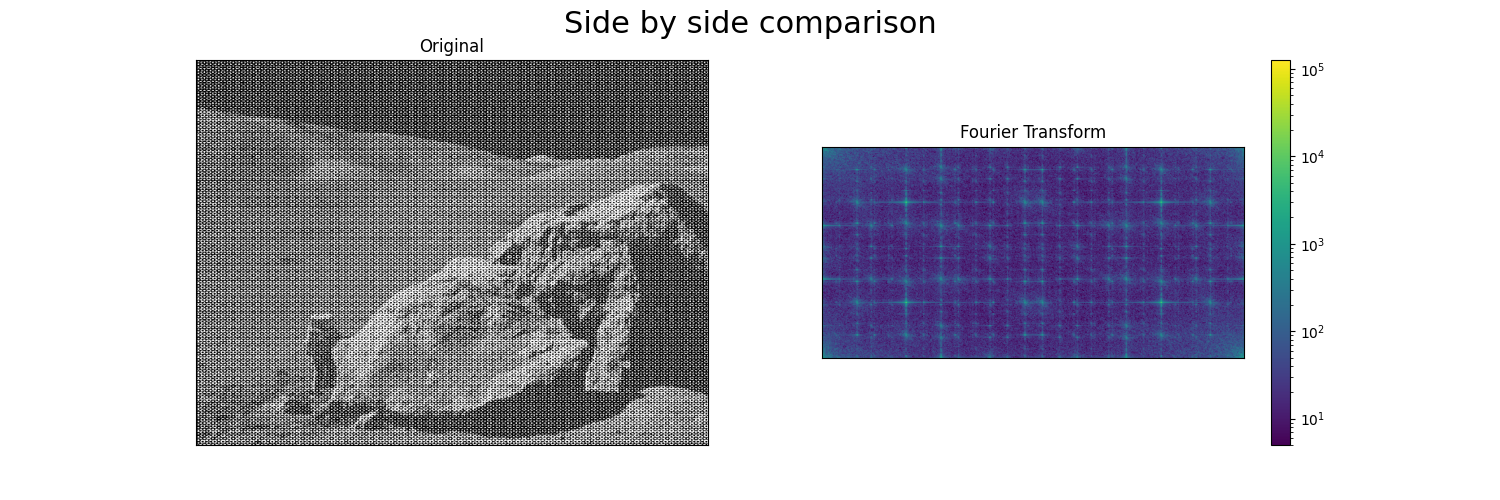
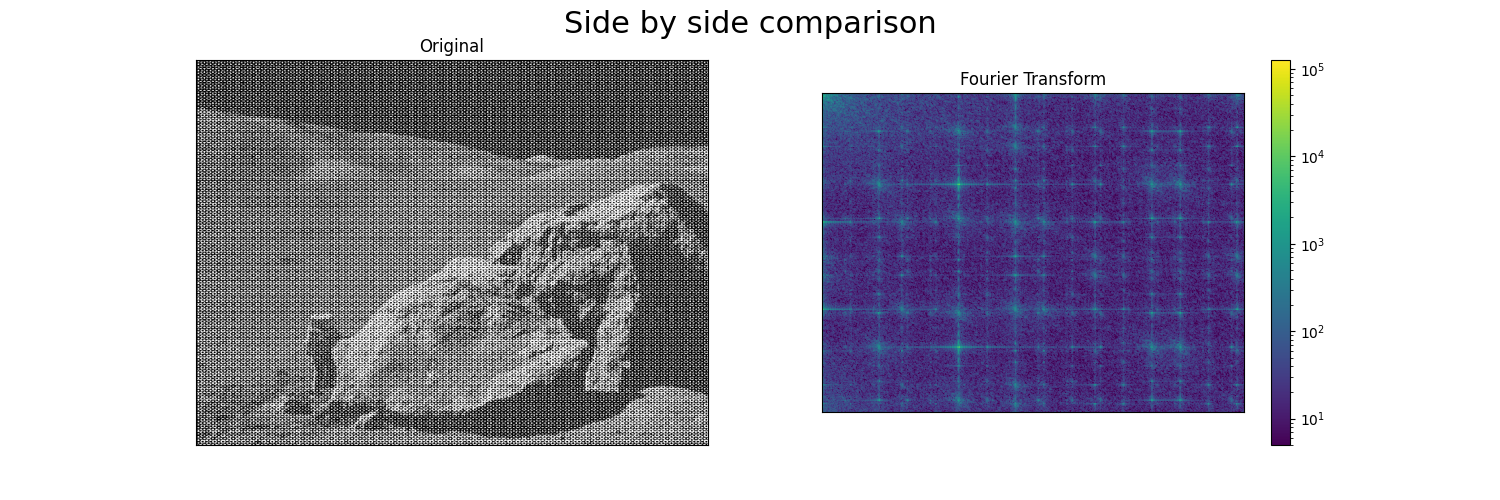
Plot comparing test
comparing test for fourier tranform

Changed region(s): [[0.5213, 0.15, 0.828, 0.84]]

diff --git a/fft.py b/fft.py
@@ -95,7 +95,7 @@ def trans_2d(img, test=False, mode=dft):
             resultVector = (1/(N * M)) * resultVector[:originalM, :originalN] # Use the size of the original image
             return resultVector
 
-    return resultVector
+    return resultVector[:originalM,:originalN]
    
 
 def find_next_power_2(n):
@@ -471,6 +471,25 @@ def test_reconstruct_image():
     print(f"Average difference between orginal image and reconstructed image: {s}")
     print("----------------------------------------------")
 
+def testNumpyFTandPersonalFT():
+    print("---------------- TEST 13 ----------------------")
+    print(f" Difference between Numpy FT and our FT")
+    print("----------------------------------------------")
+    fft_image = trans_2d(img, mode=fft)
+    fft_image2 = np.fft.fft2(img) 
+    plt.figure(figsize=(15,5))
+    plt.subplot(121), plt.imshow(np.abs(fft_image.real), norm=LogNorm(vmin=5))
+    plt.colorbar()
+    plt.title("Our Fourier Transform"), plt.xticks([]), plt.yticks([])
+    plt.subplot(122), plt.imshow(np.abs(fft_image2.real), norm=LogNorm(vmin=5))
+    plt.colorbar()
+    plt.title("Numpy  Fourier Transform"), plt.xticks([]), plt.yticks([])
+    plt.suptitle("Side by side comparison",fontsize=22)
+    plt.savefig("./mode_1_results/ComparingPlots.png")
+    plt.show()
+ 
+
+
 
 if __name__ == "__main__":
     # Default values
@@ -521,8 +540,9 @@ if __name__ == "__main__":
     elif mode == "t":
         # Testing purposes
         print("Testing...")
-        test_correctness()
-        test_reconstruct_image()
+        #test_correctness()
+        #test_reconstruct_image()
+        testNumpyFTandPersonalFT()
     else:
         print("Bad Argument, Exiting...")
 
